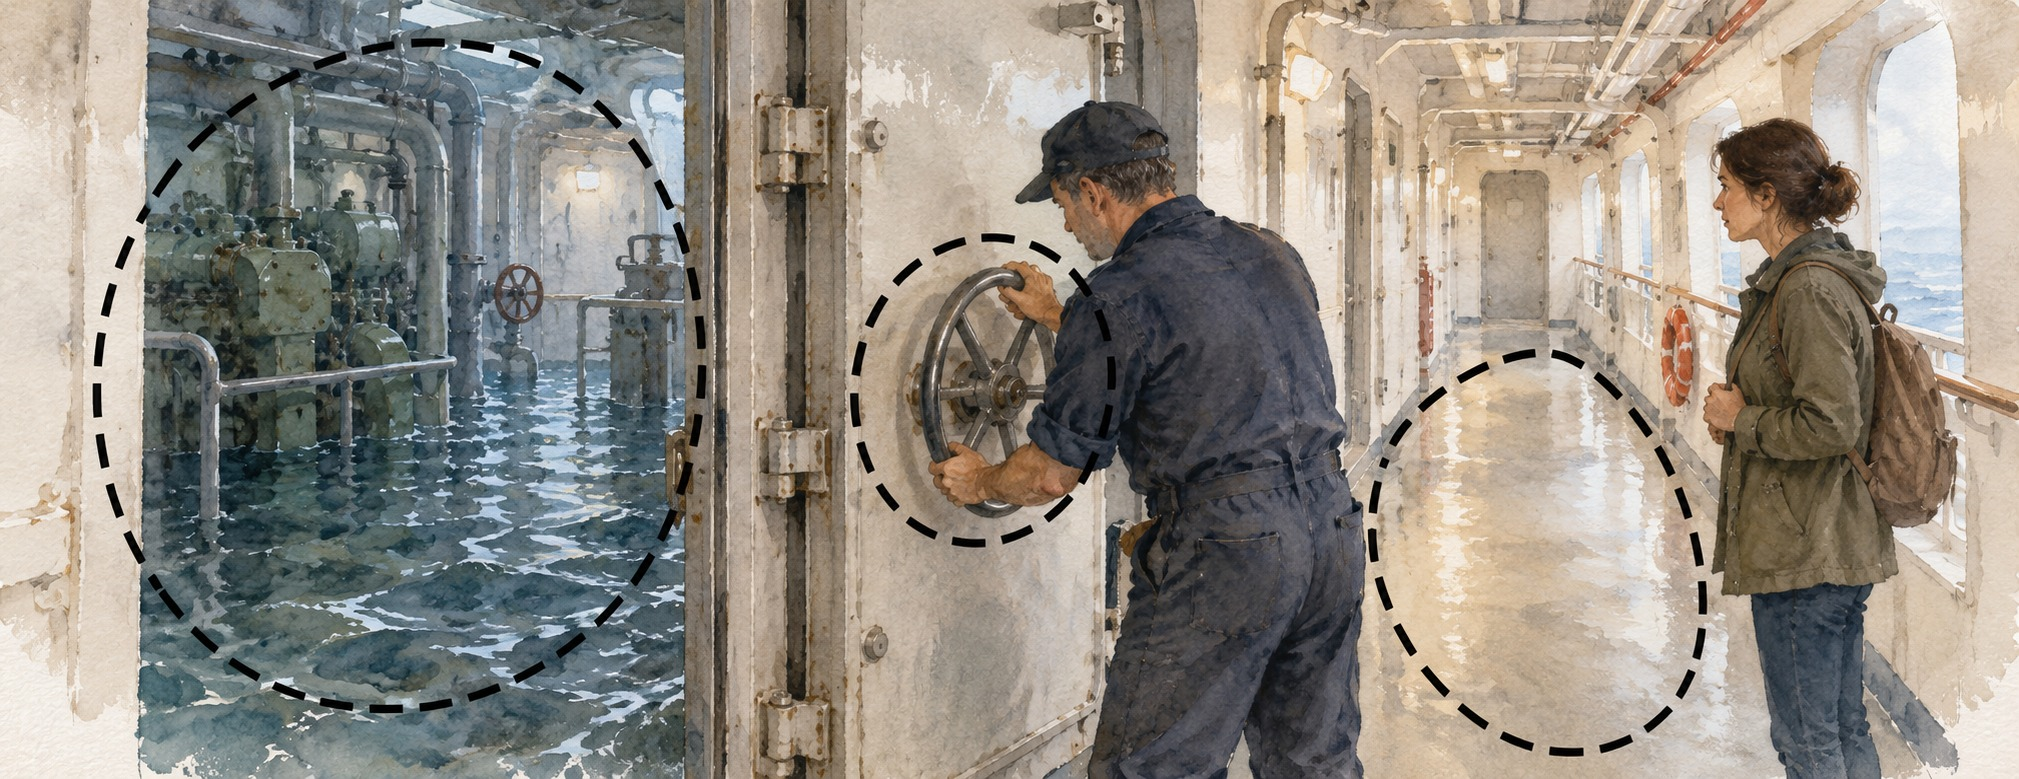
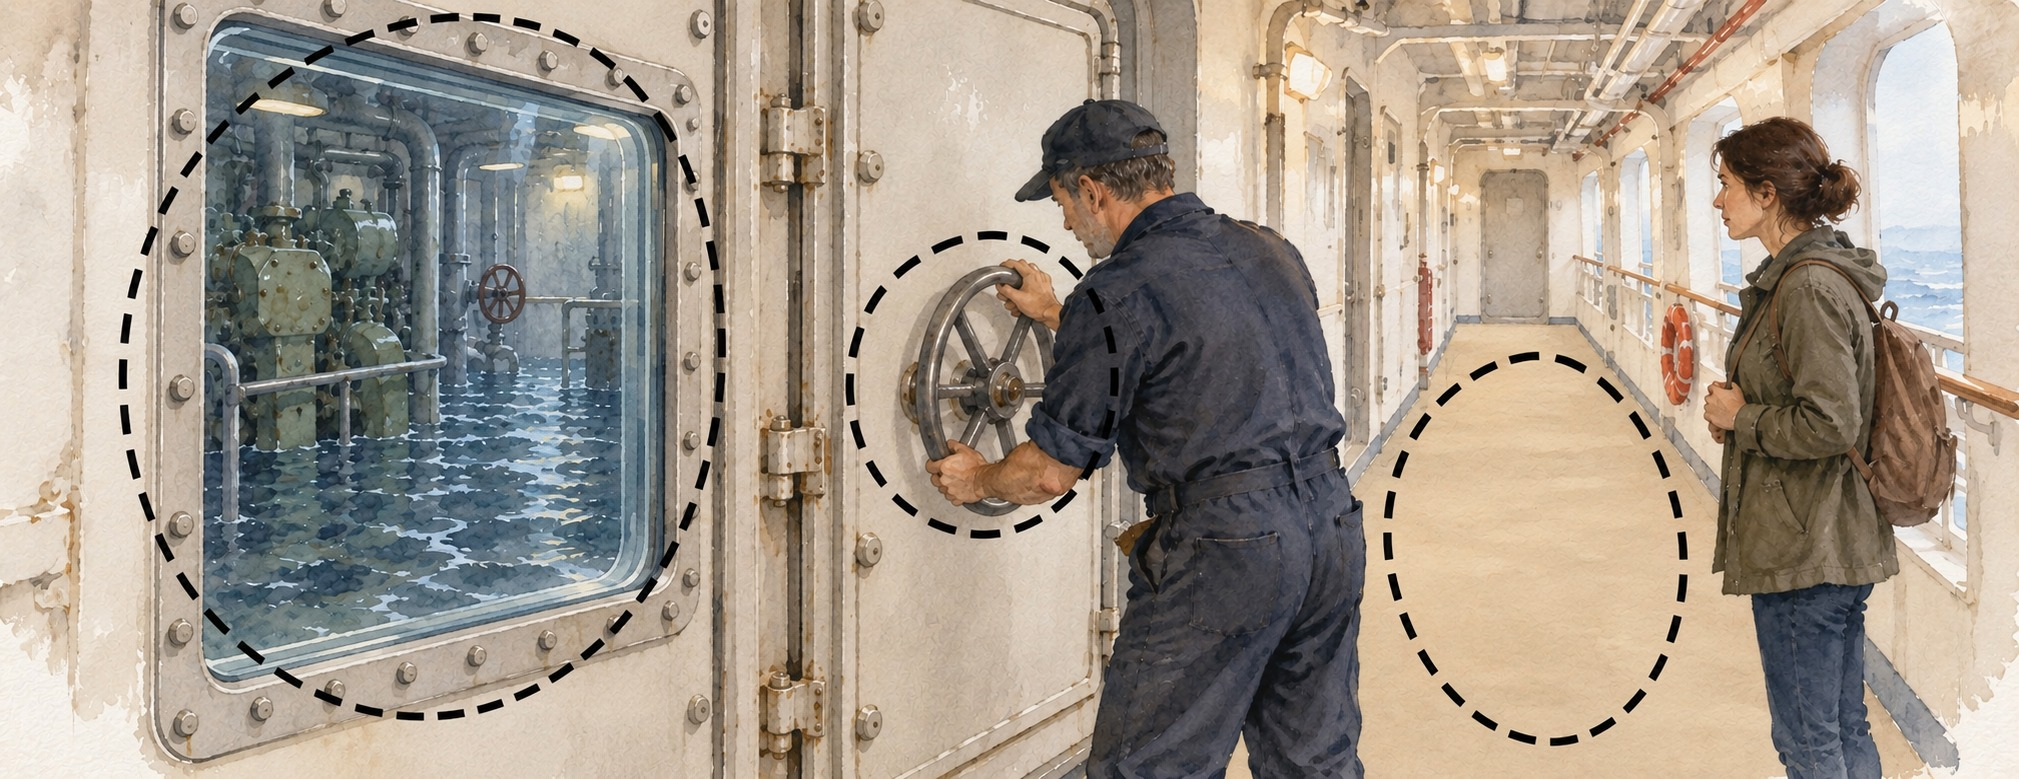
Corrige isolamento do compartimento na capa de Bulkhead (#40)

diff --git a/sw-version.js b/sw-version.js
@@ -1,5 +1,5 @@
 // Generated by scripts/build-articles.mjs. Do not edit manually.
-const PRECACHE_VERSION = "ed4de99c71d2c7b0";
+const PRECACHE_VERSION = "9d3812ba3f7ee164";
 const PRECACHE_FILES = [
   "app.js",
   "article.html",
